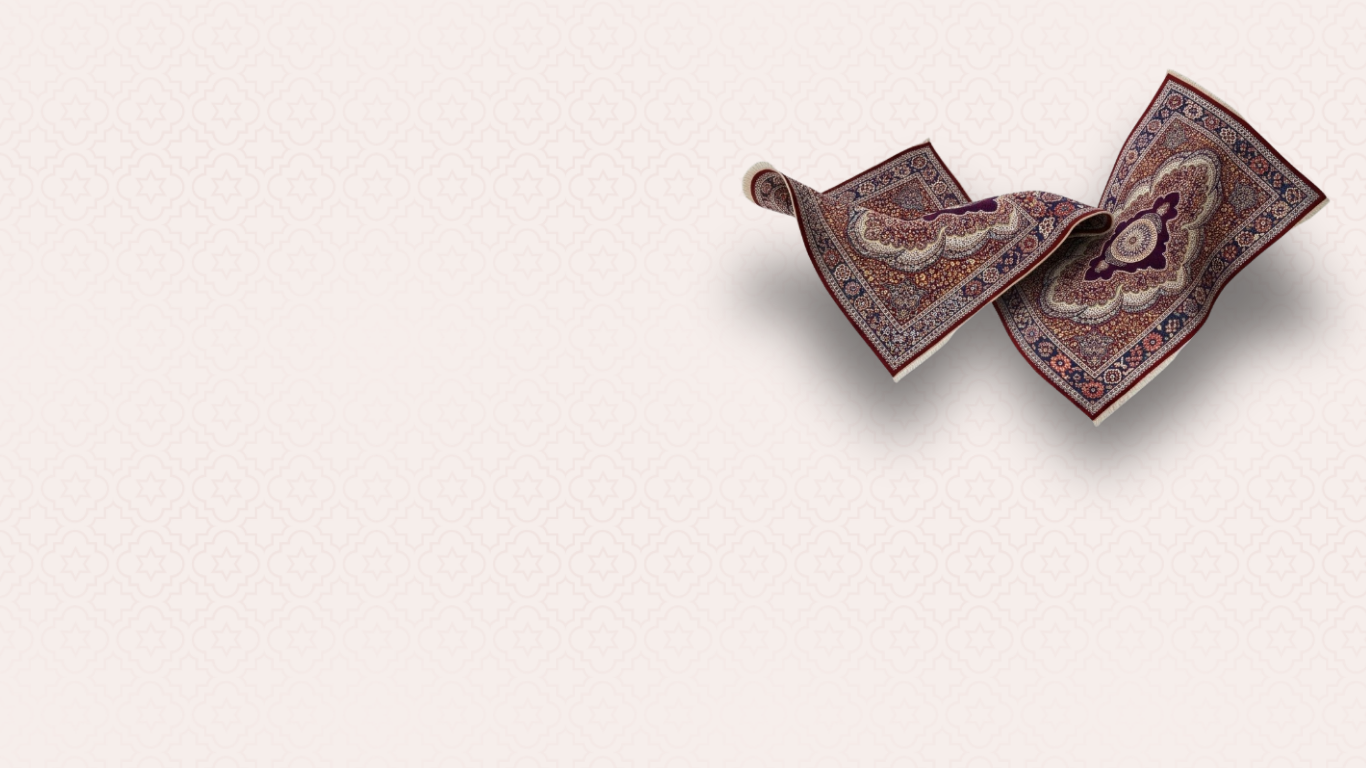
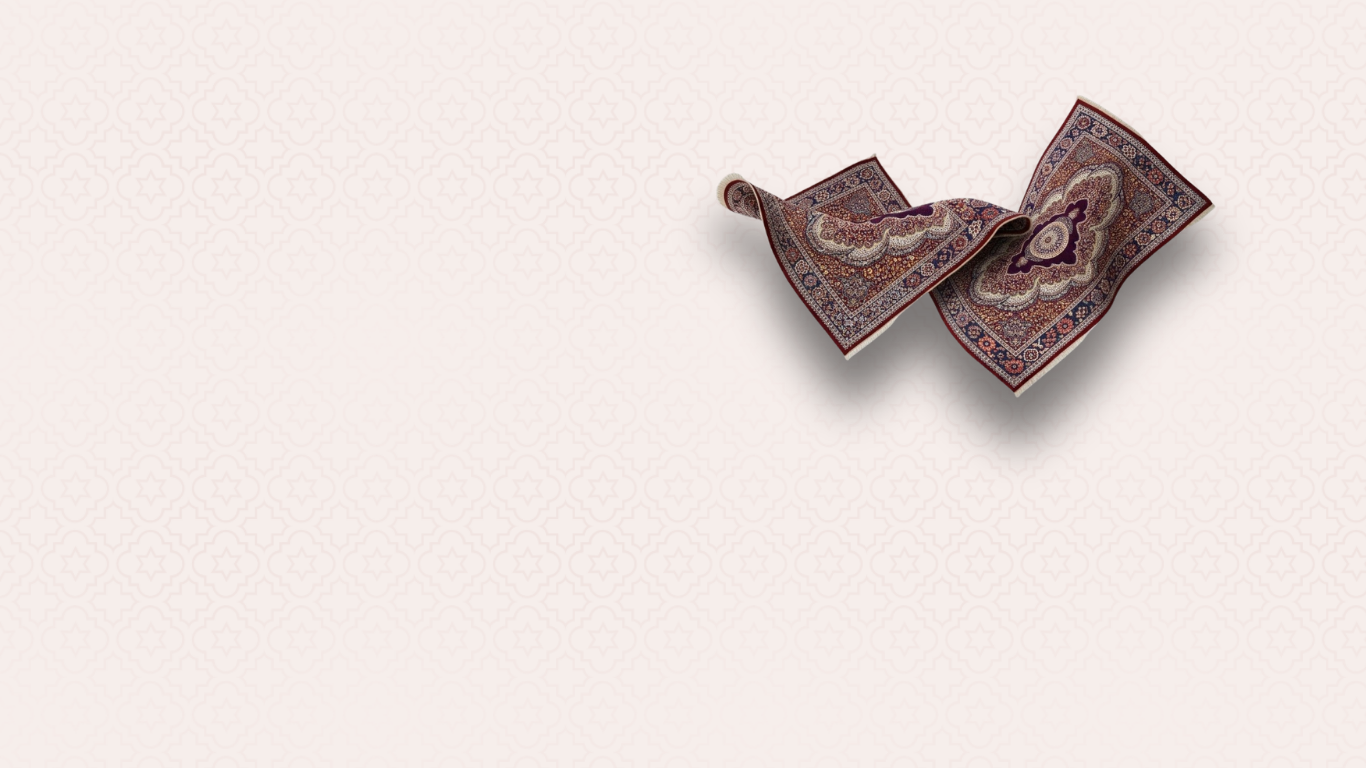
progress

Changed region(s): [[0.5227, 0.0938, 0.9839, 0.625]]

diff --git a/components/sections/Slider4.js b/components/sections/Slider4.js
@@ -40,7 +40,7 @@ export default function Slider4() {
                                 <SwiperSlide style={{ backgroundImage: "url('assets/img/slider/1.png')" }} className="  slider-bg-four">
                                     <div className="row align-items-center">
                                         <div className="">
-                                            <div className="tpslidertwo__item slidre-item-4 ml-145 text-center">
+                                            <div className="tpslidertwo__item slider-item-4 ml-50 text-center">
                                                 <div className="tpslidertwo__content">
                                                     <h3 className="tpslidertwo__title mb-10">Will Never <br /> Compromise Quality</h3>
                                                     <p style={{ color: '#c69e47', paddingInline: '10px' }}>New Modern Stylish Fashionable Rugs & Carpets</p>
@@ -59,7 +59,7 @@ export default function Slider4() {
                                 <SwiperSlide style={{ backgroundImage: "url('assets/img/slider/3.png')" }} className="  slider-bg-four">
                                     <div className="row align-items-center">
                                         <div className="">
-                                            <div className="tpslidertwo__item slidre-item-4 ml-145 text-center">
+                                            <div className="tpslidertwo__item slidre-item-4 ml-50 text-center">
                                                 <div className="tpslidertwo__content">
                                                     <h3 className="tpslidertwo__title mb-10">Will Never <br /> Compromise Comfort</h3>
                                                     <p style={{ color: '#c69e47', paddingInline: '10px' }}>New Modern Stylish Fashionable Rugs & Carpets</p>
@@ -81,7 +81,7 @@ export default function Slider4() {
                                 <SwiperSlide style={{ backgroundImage: "url('assets/img/slider/2.png')" }} className="  slider-bg-four">
                                     <div className="row align-items-center">
                                         <div className="">
-                                            <div className="tpslidertwo__item slidre-item-4 ml-145 text-center">
+                                            <div className="tpslidertwo__item slidre-item-4 ml-50 text-center">
                                                 <div className="tpslidertwo__content">
                                                     <h3 className="tpslidertwo__title mb-10">Will Never <br /> Compromise Beauty</h3>
                                                     <p style={{ color: '#c69e47', paddingInline: '10px' }}>New Modern Stylish Fashionable Rugs & Carpets</p>

diff --git a/components/sections/WhiteProduct.js b/components/sections/WhiteProduct.js
@@ -84,7 +84,7 @@ export default function WhiteProduct() {
                             <SwiperSlide>
                                 <div className="whiteproduct">
                                     <div className="whiteproduct__thumb">
-                                        <Link href="#"><img src="/assets/img/product/product-13.jpg" alt="product-thumb" /></Link>
+                                        <Link href="#"><img src="/assets/img/product/standard-1.png" alt="product-thumb" /></Link>
                                     </div>
                                     <div className="whiteproduct__content d-flex justify-content-between align-items-center">
                                         <div className="whiteproduct__text">